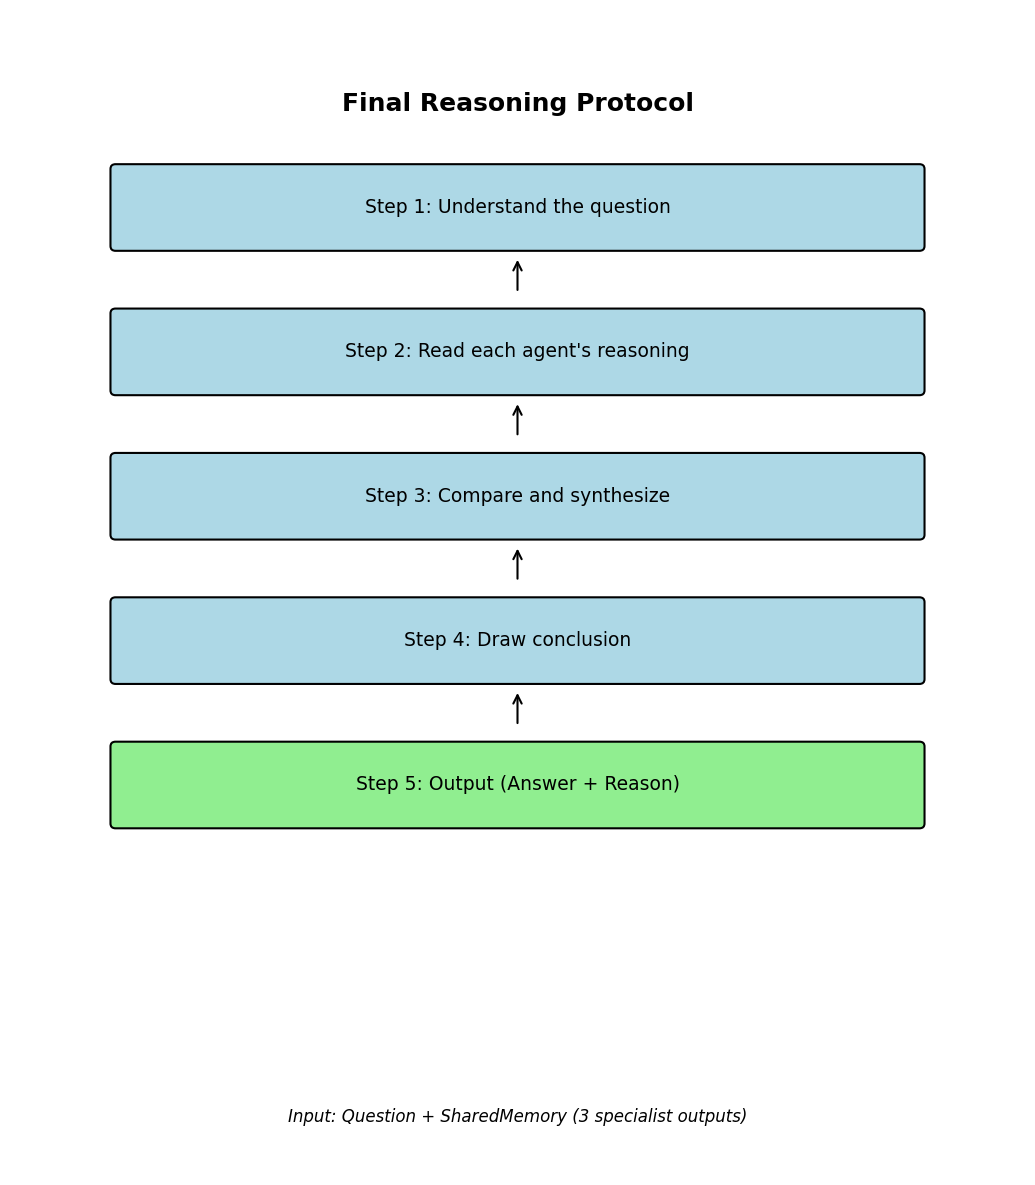
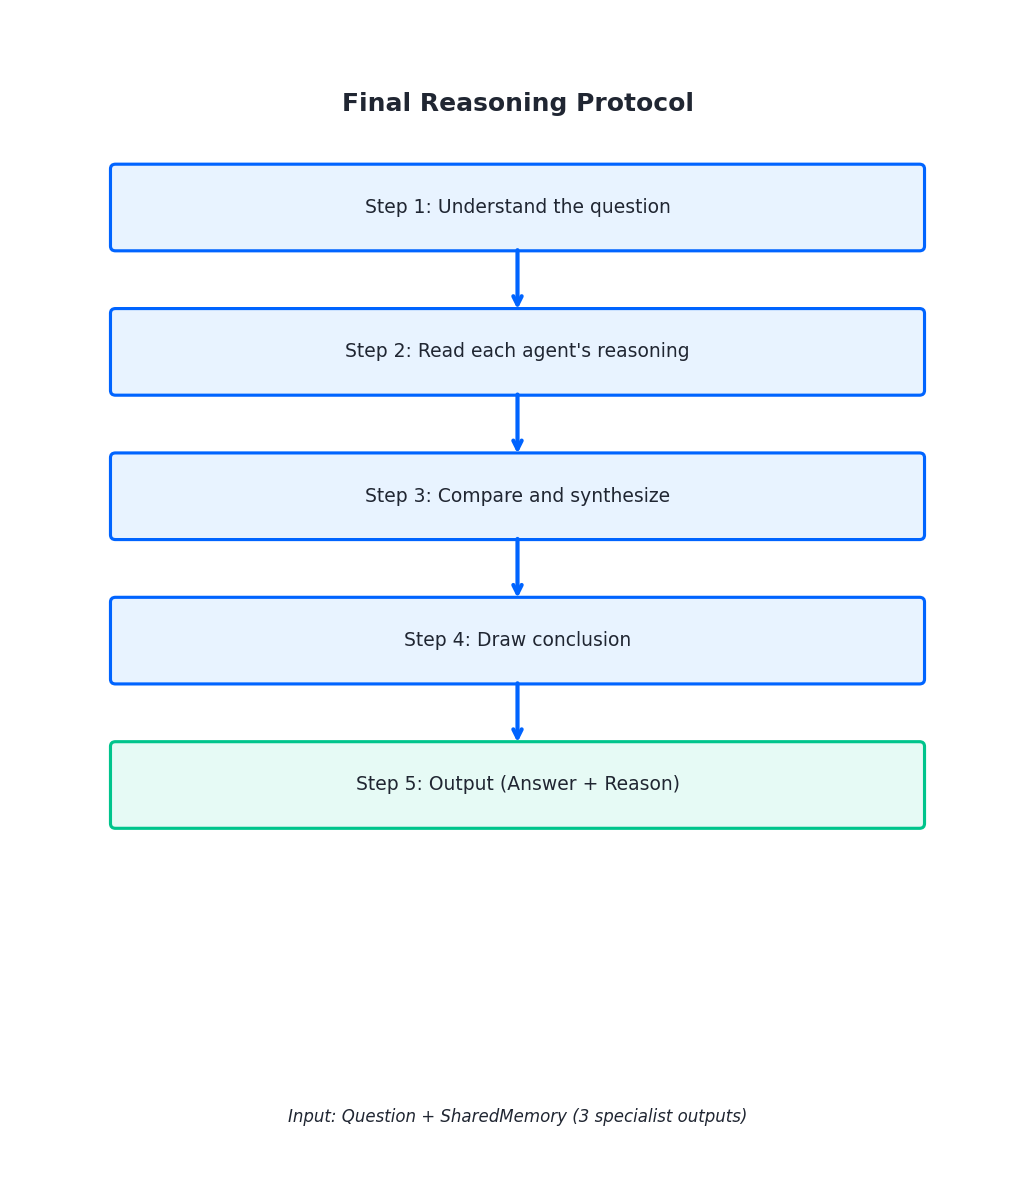
Fix appendix figures: Toss palette, Mermaid \n, pipeline flow, arrow direction
- 1.1: Replace \n with ' / ' in Mermaid to fix parsing
- 1.2: Correct MAS pipeline layout (Input→Head→ScoreMap→Specialists→SharedMemory→Final)
- 6.2: Fix Final Reasoning arrows (Step 1→2→3→4→5 downward)
- Apply Toss brand colors: #0064FF blue, #00C48C mint, #F2F4F6 gray

Made-with: Cursor

diff --git a/scripts/figures/gen_appendix_figures.py b/scripts/figures/gen_appendix_figures.py
@@ -1,7 +1,7 @@
 #!/usr/bin/env python3
 """
 Generate all figures for the Appendix GitHub issue.
-Run from project root: python scripts/figures/gen_appendix_figures.py
+Toss-style color palette. Run from project root: python scripts/figures/gen_appendix_figures.py
 """
 import json
 import sys
@@ -14,7 +14,20 @@ sys.path.insert(0, str(PROJECT_ROOT))
 OUTPUT_DIR = PROJECT_ROOT / "docs" / "figures"
 OUTPUT_DIR.mkdir(parents=True, exist_ok=True)
 
-# Agent profile display names (match heatmap style)
+# Toss brand colors (clean, minimal)
+TOSS = {
+    "blue": "#0064FF",       # Toss Blue (primary)
+    "blue_light": "#3182F6",
+    "blue_bg": "#E8F3FF",    # Light blue background
+    "mint": "#00C48C",       # Success / positive
+    "mint_bg": "#E6FAF5",
+    "gray": "#202632",       # Toss Gray (text)
+    "gray_light": "#F2F4F6", # Card background
+    "gray_border": "#E8EBEF",
+    "white": "#FFFFFF",
+}
+
+# Agent profile display names
 MODEL_DISPLAY_NAMES = {
     "claude_sonnet_4_5": "Claude 4.5",
     "gemini_robotics_er": "Gemini-ER",
@@ -44,19 +57,17 @@ def load_agent_profiles():
 
 
 def gen_model_profiles_heatmap():
-    """Generate model x category performance heatmap."""
+    """Generate model x category performance heatmap (Toss colors)."""
     try:
         import numpy as np
-        import matplotlib.pyplot as plt
         import matplotlib
         matplotlib.use("Agg")
+        import matplotlib.pyplot as plt
     except ImportError as e:
         print(f"Skipping heatmap (missing deps): {e}")
         return None
 
     data = load_agent_profiles()
-    models = [MODEL_DISPLAY_NAMES.get(m, m) for m in sorted(data.keys()) if m in MODEL_DISPLAY_NAMES or m in data]
-    # Order: Claude, Gemini, GPT-4o, LLaVA, Qwen3, Sa2VA
     order = ["claude_sonnet_4_5", "gemini_robotics_er", "gpt4o", "llava4d", "qwen3_4b", "sa2va"]
     models = [MODEL_DISPLAY_NAMES.get(m, m) for m in order if m in data]
     cats = [c for c in CATEGORIES_ORDER if any(data[m].get(c) is not None for m in data)]
@@ -70,55 +81,53 @@ def gen_model_profiles_heatmap():
 
     arr = np.array(matrix)
     fig, ax = plt.subplots(figsize=(10, 5))
-    im = ax.imshow(arr, aspect="auto", cmap="RdYlGn", vmin=0, vmax=1)
+    fig.patch.set_facecolor(TOSS["white"])
+    ax.set_facecolor(TOSS["white"])
+
+    # Toss-style colormap: gray (low) -> blue (mid) -> mint (high)
+    from matplotlib.colors import LinearSegmentedColormap
+    colors_toss = [TOSS["gray_light"], TOSS["blue_bg"], TOSS["blue"], TOSS["mint"]]
+    cmap = LinearSegmentedColormap.from_list("toss", colors_toss, N=256)
+    im = ax.imshow(arr, aspect="auto", cmap=cmap, vmin=0, vmax=1)
 
     ax.set_xticks(range(len(cats)))
-    ax.set_xticklabels(cats, rotation=45, ha="right")
+    ax.set_xticklabels(cats, rotation=45, ha="right", color=TOSS["gray"])
     ax.set_yticks(range(len(models)))
-    ax.set_yticklabels(models)
-    ax.set_title("Head-Agent Model Profiles: Per-Category Performance (Unified)")
+    ax.set_yticklabels(models, color=TOSS["gray"])
+    ax.set_title("Head-Agent Model Profiles: Per-Category Performance (Unified)", color=TOSS["gray"], fontsize=11)
 
     for i in range(len(models)):
         for j in range(len(cats)):
             val = arr[i, j]
-            color = "white" if val < 0.5 else "black"
+            color = TOSS["white"] if val < 0.5 else TOSS["gray"]
             ax.text(j, i, f"{val:.2f}", ha="center", va="center", fontsize=8, color=color)
 
     cbar = plt.colorbar(im, ax=ax)
-    cbar.set_label("Performance (0–1)")
+    cbar.set_label("Performance (0–1)", color=TOSS["gray"])
+    cbar.ax.yaxis.set_tick_params(color=TOSS["gray"])
     plt.tight_layout()
     out = OUTPUT_DIR / "fig_model_profiles_heatmap.png"
-    plt.savefig(out, dpi=150, bbox_inches="tight")
+    plt.savefig(out, dpi=150, bbox_inches="tight", facecolor=TOSS["white"])
     plt.close()
     print(f"Saved {out}")
     return out
 
 
 def gen_role_tool_matrix():
-    """Generate Role x Tool matrix as image."""
+    """Generate Role x Tool matrix (Toss colors)."""
     try:
-        import matplotlib.pyplot as plt
         import matplotlib
         matplotlib.use("Agg")
+        import matplotlib.pyplot as plt
     except ImportError as e:
         print(f"Skipping role-tool matrix: {e}")
         return None
 
-    roles = ["direct_visual_heuristic", "explicit_3d_representation", "scene_graph_construction"]
-    tools = ["None", "Depth / 3D Representation", "Scene Graph"]
-    # direct: no tool, explicit_3d: depth, scene_graph: scene graph
-    matrix = [
-        ["✓", "—", "—"],
-        ["—", "✓", "—"],
-        ["—", "—", "✓"],
-    ]
-    labels = [["Yes", "No", "No"], ["No", "Yes", "No"], ["No", "No", "Yes"]]
-
     fig, ax = plt.subplots(figsize=(8, 4))
+    fig.patch.set_facecolor(TOSS["white"])
+    ax.set_facecolor(TOSS["white"])
     ax.axis("off")
 
-    role_short = ["Direct Visual", "Explicit 3D", "Scene Graph"]
-    col_labels = ["Tool", "direct_visual", "explicit_3d", "scene_graph"]
     table_data = [
         ["Depth / 3D Repr", "—", "✓", "—"],
         ["Scene Graph", "—", "—", "✓"],
@@ -133,16 +142,29 @@ def gen_role_tool_matrix():
     table.auto_set_font_size(False)
     table.set_fontsize(10)
     table.scale(1.2, 2)
-    ax.set_title("Specialist Role × Tool Assignment")
+
+    # Toss styling
+    for (i, j), cell in table.get_celld().items():
+        cell.set_facecolor(TOSS["white"])
+        cell.set_edgecolor(TOSS["gray_border"])
+        cell.set_text_props(color=TOSS["gray"])
+        if i == 0:
+            cell.set_facecolor(TOSS["blue_bg"])
+            cell.set_text_props(weight="bold", color=TOSS["blue"])
+        elif "✓" in str(cell.get_text().get_text()):
+            cell.set_facecolor(TOSS["mint_bg"])
+            cell.set_text_props(color=TOSS["mint"])
+
+    ax.set_title("Specialist Role × Tool Assignment", color=TOSS["gray"], fontsize=11)
     out = OUTPUT_DIR / "fig_role_tool_matrix.png"
-    plt.savefig(out, dpi=150, bbox_inches="tight", pad_inches=0.5)
+    plt.savefig(out, dpi=150, bbox_inches="tight", pad_inches=0.5, facecolor=TOSS["white"])
     plt.close()
     print(f"Saved {out}")
     return out
 
 
 def gen_final_reasoning_flow():
-    """Generate Final Reasoning 5-step protocol flowchart."""
+    """Generate Final Reasoning 5-step protocol. Arrows: Step 1 → 2 → 3 → 4 → 5 (downward)."""
     try:
         import matplotlib
         matplotlib.use("Agg")
@@ -153,8 +175,10 @@ def gen_final_reasoning_flow():
         return None
 
     fig, ax = plt.subplots(figsize=(7, 8))
+    fig.patch.set_facecolor(TOSS["white"])
     ax.set_xlim(0, 10)
     ax.set_ylim(0, 12)
+    ax.set_facecolor(TOSS["white"])
     ax.axis("off")
 
     steps = [
@@ -164,28 +188,35 @@ def gen_final_reasoning_flow():
         (5, 5.5, "Step 4: Draw conclusion"),
         (5, 4, "Step 5: Output (Answer + Reason)"),
     ]
-    y_offsets = [10, 8.5, 7, 5.5, 4]
-    for i, (x, y, text) in enumerate(steps):
-        box = FancyBboxPatch((1, y - 0.4), 8, 0.8, boxstyle="round,pad=0.05",
-                             facecolor="lightblue" if i < 4 else "lightgreen", edgecolor="black")
-        ax.add_patch(box)
-        ax.text(5, y, text, ha="center", va="center", fontsize=9, wrap=True)
-        if i < 4:
-            ax.annotate("", xy=(5, y - 0.5), xytext=(5, y - 0.9),
-                        arrowprops=dict(arrowstyle="->", color="black"))
 
-    ax.text(5, 11, "Final Reasoning Protocol", ha="center", fontsize=12, fontweight="bold")
-    ax.text(5, 0.5, "Input: Question + SharedMemory (3 specialist outputs)", ha="center", fontsize=8, style="italic")
+    for i, (x, y, text) in enumerate(steps):
+        # Toss colors: blue for steps 1-4, mint for final step
+        facecolor = TOSS["blue_bg"] if i < 4 else TOSS["mint_bg"]
+        edgecolor = TOSS["blue"] if i < 4 else TOSS["mint"]
+        box = FancyBboxPatch((1, y - 0.4), 8, 0.8, boxstyle="round,pad=0.05",
+                             facecolor=facecolor, edgecolor=edgecolor, linewidth=1.5)
+        ax.add_patch(box)
+        ax.text(5, y, text, ha="center", va="center", fontsize=9, color=TOSS["gray"])
+
+        # Arrow: FROM current step (bottom) TO next step (top). Direction: DOWN.
+        if i < 4:
+            y_next = steps[i + 1][1]
+            # Start: bottom of current box (y - 0.4), End: top of next box (y_next + 0.4)
+            ax.annotate("", xy=(5, y_next + 0.4), xytext=(5, y - 0.4),
+                        arrowprops=dict(arrowstyle="->", color=TOSS["blue"], lw=2))
+
+    ax.text(5, 11, "Final Reasoning Protocol", ha="center", fontsize=12, fontweight="bold", color=TOSS["gray"])
+    ax.text(5, 0.5, "Input: Question + SharedMemory (3 specialist outputs)", ha="center", fontsize=8, color=TOSS["gray"], style="italic")
     plt.tight_layout()
     out = OUTPUT_DIR / "fig_final_reasoning_protocol.png"
-    plt.savefig(out, dpi=150, bbox_inches="tight")
+    plt.savefig(out, dpi=150, bbox_inches="tight", facecolor=TOSS["white"])
     plt.close()
     print(f"Saved {out}")
     return out
 
 
 def gen_mas_pipeline_diagram():
-    """Generate MAS pipeline flow diagram."""
+    """Generate MAS pipeline flow. Correct flow: Image+Query → Head → ScoreMap → 3 Specialists → SharedMemory → Final Reasoning → Answer."""
     try:
         import matplotlib
         matplotlib.use("Agg")
@@ -195,50 +226,80 @@ def gen_mas_pipeline_diagram():
         print(f"Skipping pipeline: {e}")
         return None
 
-    fig, ax = plt.subplots(figsize=(10, 8))
+    fig, ax = plt.subplots(figsize=(10, 9))
+    fig.patch.set_facecolor(TOSS["white"])
     ax.set_xlim(0, 10)
-    ax.set_ylim(0, 10)
+    ax.set_ylim(0, 11)
+    ax.set_facecolor(TOSS["white"])
     ax.axis("off")
 
-    # Head
-    ax.add_patch(FancyBboxPatch((3.5, 8), 3, 0.8, boxstyle="round,pad=0.05", facecolor="wheat", edgecolor="black"))
-    ax.text(5, 8.4, "Head Agent\n(category)", ha="center", va="center", fontsize=9)
+    # Vertical positions (top to bottom)
+    y_input = 10
+    y_head = 8.5
+    y_scoremap = 7
+    y_specialists = 5
+    y_shared = 3
+    y_final = 1.5
+    y_output = 0.3
+
+    # Input
+    ax.add_patch(FancyBboxPatch((3.5, y_input - 0.35), 3, 0.7, boxstyle="round,pad=0.05",
+                                facecolor=TOSS["gray_light"], edgecolor=TOSS["gray_border"]))
+    ax.text(5, y_input, "Image + Query", ha="center", va="center", fontsize=9, color=TOSS["gray"])
+
+    # Head Agent
+    ax.add_patch(FancyBboxPatch((3.5, y_head - 0.35), 3, 0.7, boxstyle="round,pad=0.05",
+                                facecolor=TOSS["blue_bg"], edgecolor=TOSS["blue"]))
+    ax.text(5, y_head, "Head Agent (category)", ha="center", va="center", fontsize=9, color=TOSS["gray"])
 
     # ScoreMap
-    ax.add_patch(FancyBboxPatch((3.5, 6.5), 3, 0.8, boxstyle="round,pad=0.05", facecolor="lightyellow", edgecolor="black"))
-    ax.text(5, 6.9, "ScoreMap\n(role, llm) selection", ha="center", va="center", fontsize=9)
+    ax.add_patch(FancyBboxPatch((3.5, y_scoremap - 0.35), 3, 0.7, boxstyle="round,pad=0.05",
+                                facecolor=TOSS["blue_bg"], edgecolor=TOSS["blue"]))
+    ax.text(5, y_scoremap, "ScoreMap (role × llm)", ha="center", va="center", fontsize=9, color=TOSS["gray"])
 
-    # Three specialists
-    for i, (name, x) in enumerate([("Direct Visual", 1), ("Explicit 3D", 4), ("Scene Graph", 7)]):
-        ax.add_patch(FancyBboxPatch((x - 0.4, 4), 1.2, 1, boxstyle="round,pad=0.05", facecolor="lightblue", edgecolor="black"))
-        ax.text(x, 4.5, name, ha="center", va="center", fontsize=8)
+    # Three specialists (horizontal)
+    specialists = [("Direct Visual", 1.5), ("Explicit 3D", 5), ("Scene Graph", 8.5)]
+    for name, x in specialists:
+        ax.add_patch(FancyBboxPatch((x - 0.6, y_specialists - 0.4), 1.2, 0.8, boxstyle="round,pad=0.05",
+                                    facecolor=TOSS["blue_bg"], edgecolor=TOSS["blue"]))
+        ax.text(x, y_specialists, name, ha="center", va="center", fontsize=8, color=TOSS["gray"])
 
     # SharedMemory
-    ax.add_patch(FancyBboxPatch((3, 2), 4, 0.8, boxstyle="round,pad=0.05", facecolor="lavender", edgecolor="black"))
-    ax.text(5, 2.4, "SharedMemory", ha="center", va="center", fontsize=9)
+    ax.add_patch(FancyBboxPatch((3, y_shared - 0.35), 4, 0.7, boxstyle="round,pad=0.05",
+                                facecolor=TOSS["mint_bg"], edgecolor=TOSS["mint"]))
+    ax.text(5, y_shared, "SharedMemory", ha="center", va="center", fontsize=9, color=TOSS["gray"])
 
     # Final Reasoning
-    ax.add_patch(FancyBboxPatch((3.5, 0.5), 3, 0.8, boxstyle="round,pad=0.05", facecolor="lightgreen", edgecolor="black"))
-    ax.text(5, 0.9, "Final Reasoning", ha="center", va="center", fontsize=9)
+    ax.add_patch(FancyBboxPatch((3.5, y_final - 0.35), 3, 0.7, boxstyle="round,pad=0.05",
+                                facecolor=TOSS["mint_bg"], edgecolor=TOSS["mint"]))
+    ax.text(5, y_final, "Final Reasoning", ha="center", va="center", fontsize=9, color=TOSS["gray"])
 
-    # Arrows
-    ax.annotate("", xy=(5, 7.3), xytext=(5, 8), arrowprops=dict(arrowstyle="->", lw=2))
-    ax.annotate("", xy=(5, 5), xytext=(5, 6.5), arrowprops=dict(arrowstyle="->", lw=2))
-    ax.annotate("", xy=(5, 2.8), xytext=(5, 4), arrowprops=dict(arrowstyle="->", lw=2))
-    ax.annotate("", xy=(5, 1.3), xytext=(5, 2.8), arrowprops=dict(arrowstyle="->", lw=2))
+    # Arrows (top to bottom, correct direction)
+    ax.annotate("", xy=(5, y_head + 0.35), xytext=(5, y_input - 0.35),
+                arrowprops=dict(arrowstyle="->", color=TOSS["blue"], lw=2))
+    ax.annotate("", xy=(5, y_scoremap + 0.35), xytext=(5, y_head - 0.35),
+                arrowprops=dict(arrowstyle="->", color=TOSS["blue"], lw=2))
+    ax.annotate("", xy=(5, y_specialists + 0.4), xytext=(5, y_scoremap - 0.35),
+                arrowprops=dict(arrowstyle="->", color=TOSS["blue"], lw=2))
+    ax.annotate("", xy=(5, y_shared + 0.35), xytext=(5, y_specialists - 0.4),
+                arrowprops=dict(arrowstyle="->", color=TOSS["mint"], lw=2))
+    ax.annotate("", xy=(5, y_final + 0.35), xytext=(5, y_shared - 0.35),
+                arrowprops=dict(arrowstyle="->", color=TOSS["mint"], lw=2))
+    ax.annotate("", xy=(5, y_output), xytext=(5, y_final - 0.35),
+                arrowprops=dict(arrowstyle="->", color=TOSS["mint"], lw=2))
 
-    ax.text(5, 9.5, "Image + Query", ha="center", fontsize=8)
-    ax.text(5, -0.2, "Final Answer", ha="center", fontsize=8)
+    ax.text(5, 10.7, "Input", ha="center", fontsize=8, color=TOSS["gray"])
+    ax.text(5, -0.1, "Final Answer", ha="center", fontsize=8, color=TOSS["gray"])
     plt.tight_layout()
     out = OUTPUT_DIR / "fig_mas_pipeline.png"
-    plt.savefig(out, dpi=150, bbox_inches="tight")
+    plt.savefig(out, dpi=150, bbox_inches="tight", facecolor=TOSS["white"])
     plt.close()
     print(f"Saved {out}")
     return out
 
 
 def main():
-    print("Generating appendix figures...")
+    print("Generating appendix figures (Toss palette)...")
     gen_model_profiles_heatmap()
     gen_role_tool_matrix()
     gen_final_reasoning_flow()

diff --git a/docs/GITHUB_ISSUE_APPENDIX_BODY.md b/docs/GITHUB_ISSUE_APPENDIX_BODY.md
@@ -17,21 +17,21 @@ flowchart TB
     end
     
     subgraph Head
-        B[Head Agent\nCategory Inference]
+        B["Head Agent / Category Inference"]
     end
     
     subgraph Routing
-        C[ScoreMap\nrole × llm selection]
+        C["ScoreMap / role × llm selection"]
     end
     
     subgraph Specialists
-        D1[Direct Visual\npictorial cues]
-        D2[Explicit 3D\ndepth + z values]
-        D3[Scene Graph\nnodes + edges]
+        D1["Direct Visual / pictorial cues"]
+        D2["Explicit 3D / depth + z values"]
+        D3["Scene Graph / nodes + edges"]
     end
     
     subgraph Synthesis
-        E[SharedMemory\n3 specialist outputs]
+        E["SharedMemory / 3 specialist outputs"]
         F[Final Reasoning Agent]
     end
     
